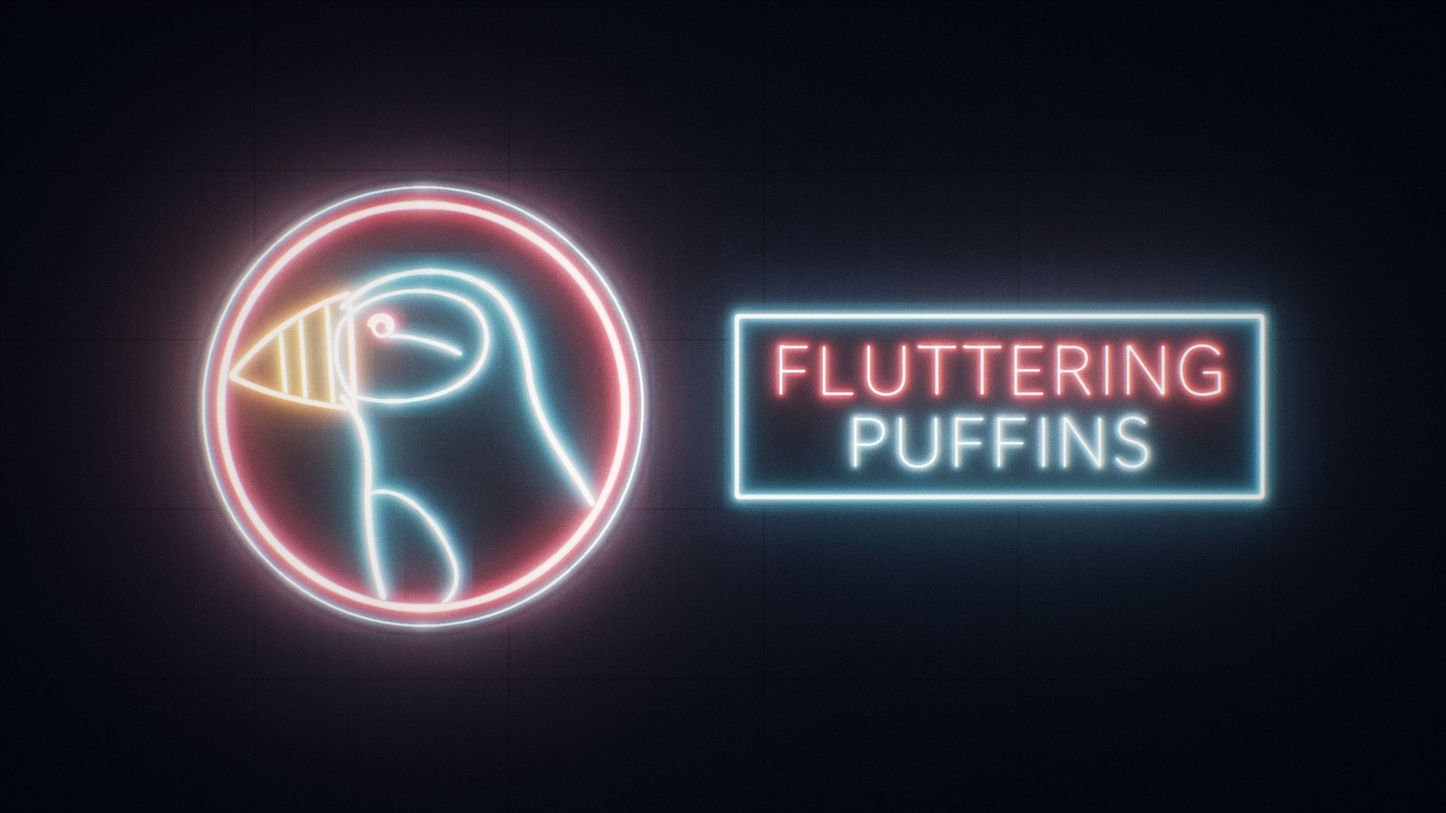
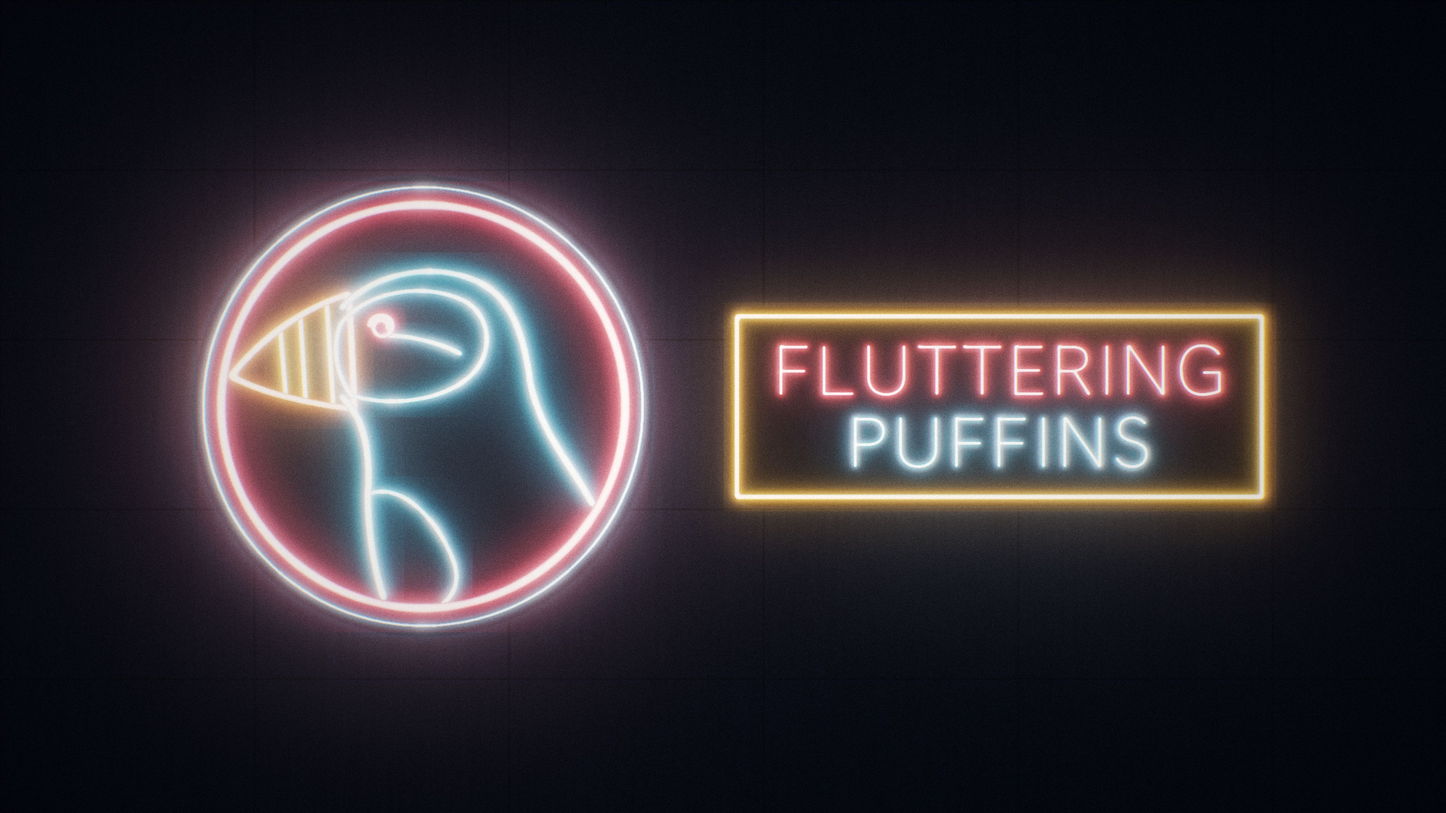
Sign frame in yellow neon (splash and Play headers)

Changed region(s): [[0.4688, 0.3438, 0.9062, 0.6562]]

diff --git a/tools/art/splash_styles/neon_layers.py b/tools/art/splash_styles/neon_layers.py
@@ -45,7 +45,7 @@ def build(lit):
                                  ('PUFFINS', 1229, TEAL, (('games_a', (0, 1, 3, 4, 5, 6)), ('games_m', (2,))))):
         dead = tuple(i for i in range(len(word)) if not any(g in lit and i in idx for g, idx in parts_))
         c.neon_text(word, W / 2, y, 72, col, Z, spacing=0.06, dead=dead)
-    tube('frame', np.array([(70, 1090), (650, 1090), (650, 1290), (70, 1290)]), BLUE2, r=2.4, closed=True, level=0.6)
+    tube('frame', np.array([(70, 1090), (650, 1090), (650, 1290), (70, 1290)]), YEL, r=2.4, closed=True, level=0.6)
     c.rain(far=0, mid=0, near=0, slant=0.08, rings=0)  # rain is animated in Splash.java (see rain_tiles.py)
     c.mist(y=H * 0.8, h=200, density=0.1)
     return np.asarray(c.composite().convert('RGB'), np.float32) / 255

diff --git a/tools/art/splash_styles/header_image.py b/tools/art/splash_styles/header_image.py
@@ -60,7 +60,7 @@ def main():
     for word, y, col in (('FLUTTERING', 1149, PINK), ('PUFFINS', 1229, TEAL)):
         px, py = Sg((360, y))
         c.neon_text(word, px, py, 72 * K, col, Z, spacing=0.06, r=max(0.9, 72 * 0.018) * K)
-    c.neon_path(Sg(np.array([(70, 1090), (650, 1090), (650, 1290), (70, 1290)])), BLUE2, Z, r=2.4 * K, level=0.6, closed=True, state='on')
+    c.neon_path(Sg(np.array([(70, 1090), (650, 1090), (650, 1290), (70, 1290)])), YEL, Z, r=2.4 * K, level=0.6, closed=True, state='on')
     c.mist(y=H2 * 0.8, h=200, density=0.1)
     img = c.composite().convert('RGB').resize((4096, 2304), Image.LANCZOS)
     out = os.path.abspath(os.path.join(RES, '..', '..', '..', 'store', 'puffin-header-%s4096x2304.jpg' % ('sign-' if SIGN_ONLY else '')))
